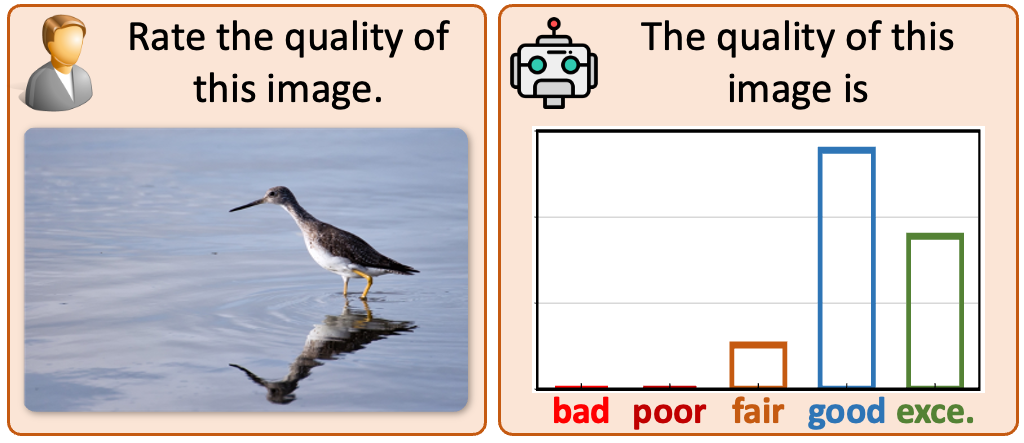
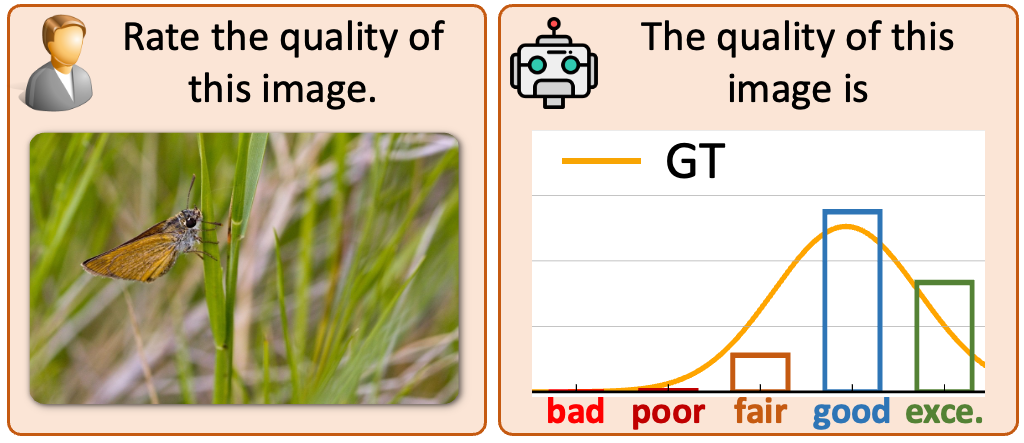
add cvpr25 info

diff --git a/index.html b/index.html
@@ -70,6 +70,7 @@
                 <td style="padding:20px;width:100%;vertical-align:middle">
                   <heading>News</heading>
                   <p>
+                  <strong>[2025.02]</strong>&nbsp;&nbsp;&nbsp;&nbsp;Two papers to appear in CVPR 2025. See you in Nashville.<br>
                   <strong>[2025.01]</strong>&nbsp;&nbsp;&nbsp;&nbsp;One paper to appear in ICLR 2025.<br>
                   <strong>[2024.12]</strong>&nbsp;&nbsp;&nbsp;&nbsp;One paper to appear in AAAI 2025 (Oral).<br>
                   <strong>[2024.09]</strong>&nbsp;&nbsp;&nbsp;&nbsp;One paper to appear in NeurIPS 2024 (Spotlight).<br>
@@ -113,10 +114,9 @@
                   <papertitle>Teaching Large Language Models to Regress Accurate Image Quality Scores using Score Distribution</papertitle>
                 </a>
                 <br>
-                <strong>Zhiyuan You</strong>,
-                Xin Cai, Jinjin Gu, Tianfan Xue†, Chao Dong†
+                <strong>Zhiyuan You</strong>, Xin Cai, Jinjin Gu, Tianfan Xue†, Chao Dong†
                 <br>
-                <em>arXiv</em>, 2025
+                IEEE Conference on Computer Vision and Pattern Recognition (<strong>CVPR</strong>), 2025
                 <br>
                 <a href="https://arxiv.org/abs/2501.11561">paper</a>
                 /
@@ -128,6 +128,36 @@
                 <p></p>
                 <p>We introduce <em>DeQA-Score</em>, a distribution-based depicted image quality assessment model 
                   for score regression.
+                </p>
+              </td>
+            </tr>
+
+            <tr>
+              <td style="padding:10px;width:40%;vertical-align:middle">
+                <img src='images/ultrafusion.jpg' style="width:100%">
+              </td>
+              <td style="padding:10px;width:60%;vertical-align:middle">
+                <a href="https://arxiv.org/abs/2501.11515">
+                  <papertitle>UltraFusion: Ultra High Dynamic Imaging using Exposure Fusion</papertitle>
+                </a>
+                <br>
+                Zixuan Chen*, Yujin Wang*, Xin Cai, <strong>Zhiyuan You</strong>, Zheming Lu, Fan Zhang, 
+                Shi Guo†, Tianfan Xue†
+                <br>
+                IEEE Conference on Computer Vision and Pattern Recognition (<strong>CVPR</strong>), 2025
+                <br>
+                <a href="https://arxiv.org/abs/2501.11515">paper</a>
+                /
+                <a href="https://ultrafusion.intern-ai.org.cn/home">project page</a>
+                /
+                <a href="https://openimaginglab.github.io/UltraFusion/">code</a>
+                /
+                online demo (<a href="https://huggingface.co/spaces/iimmortall/UltraFusion">HuggingFace</a>
+                /
+                <a href="https://openxlab.org.cn/apps/detail/OpenImagingLab/UltraFusion">OpenXLab</a>)
+                <p></p>
+                <p>We propose <em>UltraFusion</em>, the first exposure fusion technique that can merge input 
+                  with 9 stops differences.
                 </p>
               </td>
             </tr>
